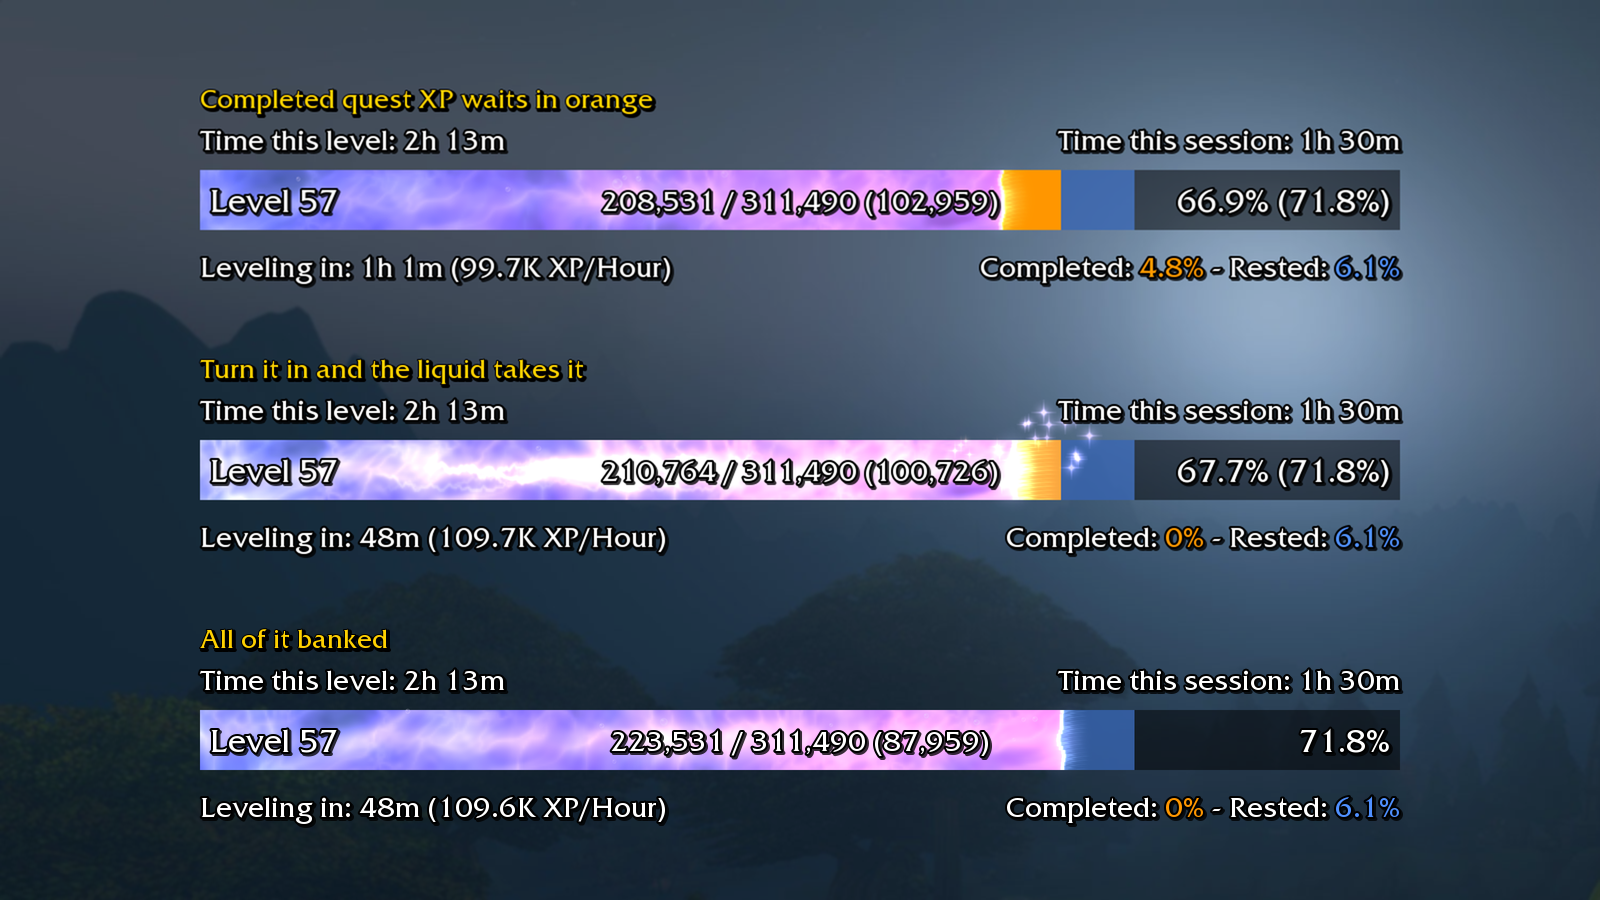
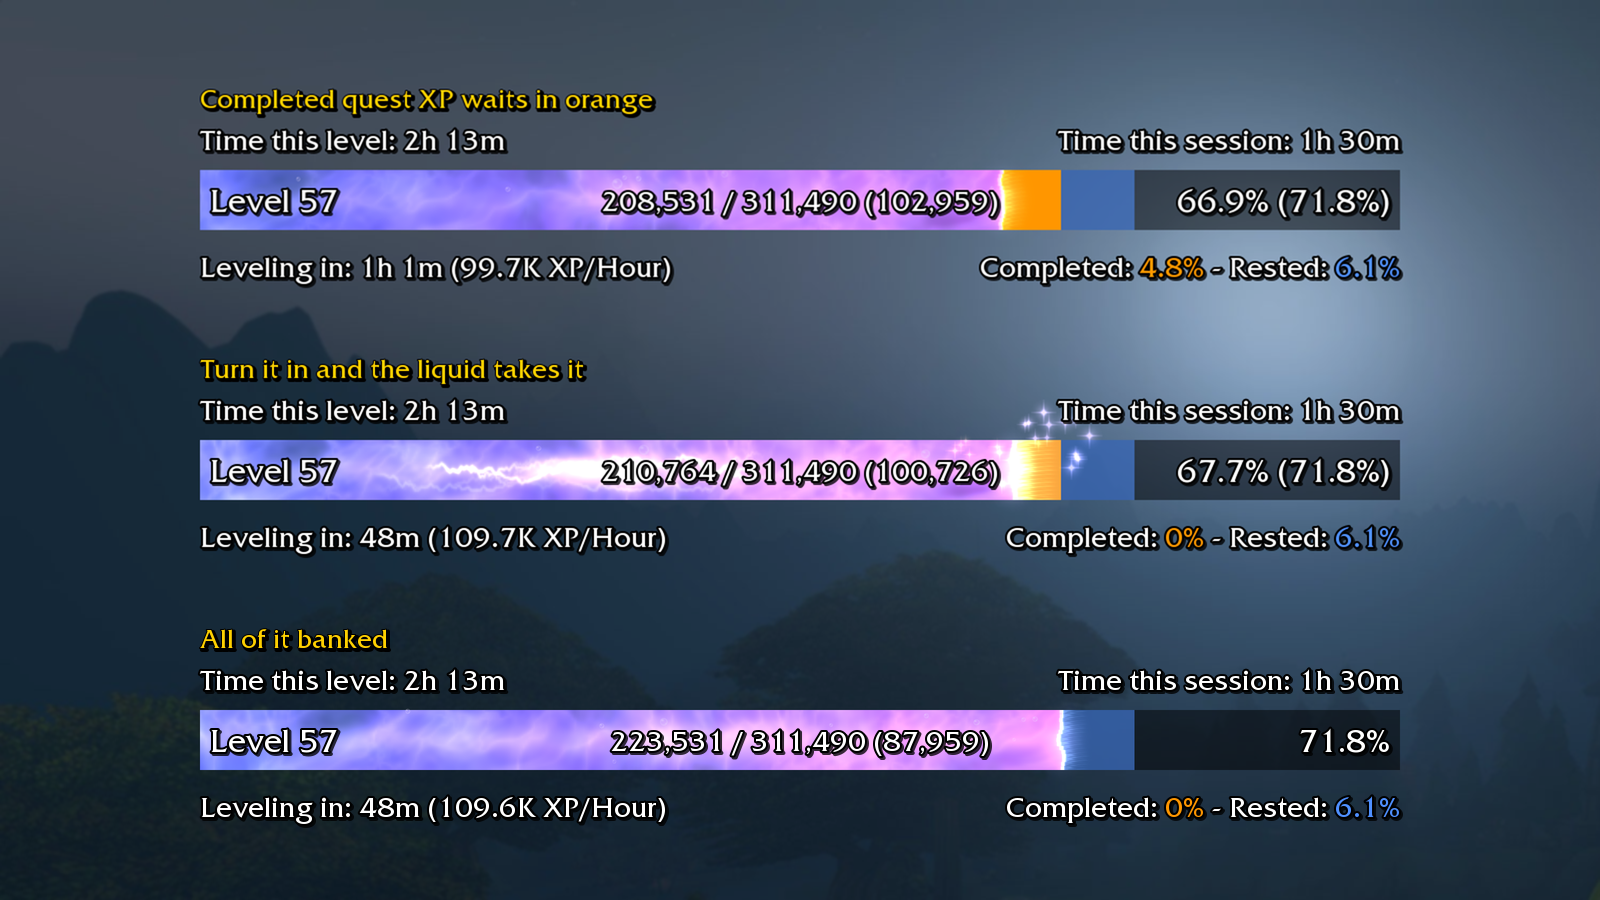
Add the pouring crest and vapour, and keep pale themes from washing out
Crest: while the fill moves fast the front's rest shape leans, top ahead
of bottom (`physics.crest`, default 7 px). Springs and neighbour
coupling act on the offset from the lean, so the front holds its shape
and rocks back and settles when the pour slows.

Vapour: a new "vapour" ambient area just behind the front at the top of
the liquid and a generated Wisp texture, used by Fel, Frost, Plague and
Void.

Washing out: the light XP gains and lightning add to the clouds, core
and veins is scaled by the headroom left in the theme's fill colour,
from its middle channel, so pale colours saturate to white much less.

Gallery rebuilt.

Changed region(s): [[0.125, 0.4667, 0.6562, 0.56], [0.4375, 0.8089, 0.4688, 0.84], [0.2188, 0.8089, 0.25, 0.84]]

diff --git a/tools/make_media.py b/tools/make_media.py
@@ -483,6 +483,18 @@ def make_glass_cap_round(path, dark=False, w=32, h=64):
     write_tga(path, w, h, pixel)
 
 
+def make_wisp(path, size=48):
+    """A soft, uneven puff of vapour, taller than wide, for wisps rising off the liquid."""
+    lumps = [(TileNoise(4 * 2**i, 4 * 2**i, 200 + i), 0.5**i) for i in range(3)]
+
+    def fn(dx, dy, d):
+        e = math.hypot(dx * 1.3, dy * 0.9)
+        body = max(0.0, 1 - e) ** 1.6
+        return 1, 1, 1, body * (0.35 + 0.65 * fbm(lumps, (dx + 1) / 2, (dy + 1) / 2))
+
+    write_tga(path, size, size, radial(size, fn))
+
+
 def make_ember(path, size=32):
     """Teardrop flame: wide and bright at the bottom, thin at the top."""
 
@@ -614,6 +626,7 @@ def main():
     make_foam(os.path.join(out, "Foam.tga"))
     make_core(os.path.join(out, "Core.tga"))
     make_bolt(os.path.join(out, "Bolt.tga"))
+    make_wisp(os.path.join(out, "Wisp.tga"))
     make_shade(os.path.join(out, "Shade.tga"))
     make_glass_light(os.path.join(out, "GlassLight.tga"))
     make_glass_dark(os.path.join(out, "GlassDark.tga"))

diff --git a/CHANGELOG.md b/CHANGELOG.md
@@ -6,6 +6,18 @@ is none. Write for players: what they can now do or see, and what was
 broken and now works. Leave out internal changes. Sections are
 `### New` and `### Fixed`; skip one that would be empty.
 
+## 1.2.0
+
+### New
+- The front of the liquid leans forward while it pours fast, then rocks
+  back and settles.
+- Fel, Frost, Plague and Void give off wisps of vapour from the front of
+  the liquid.
+
+### Fixed
+- Pale themes such as the default and Holy no longer wash out to white
+  during big XP gains, so the lightning stays visible.
+
 ## 1.1.0
 
 ### New
